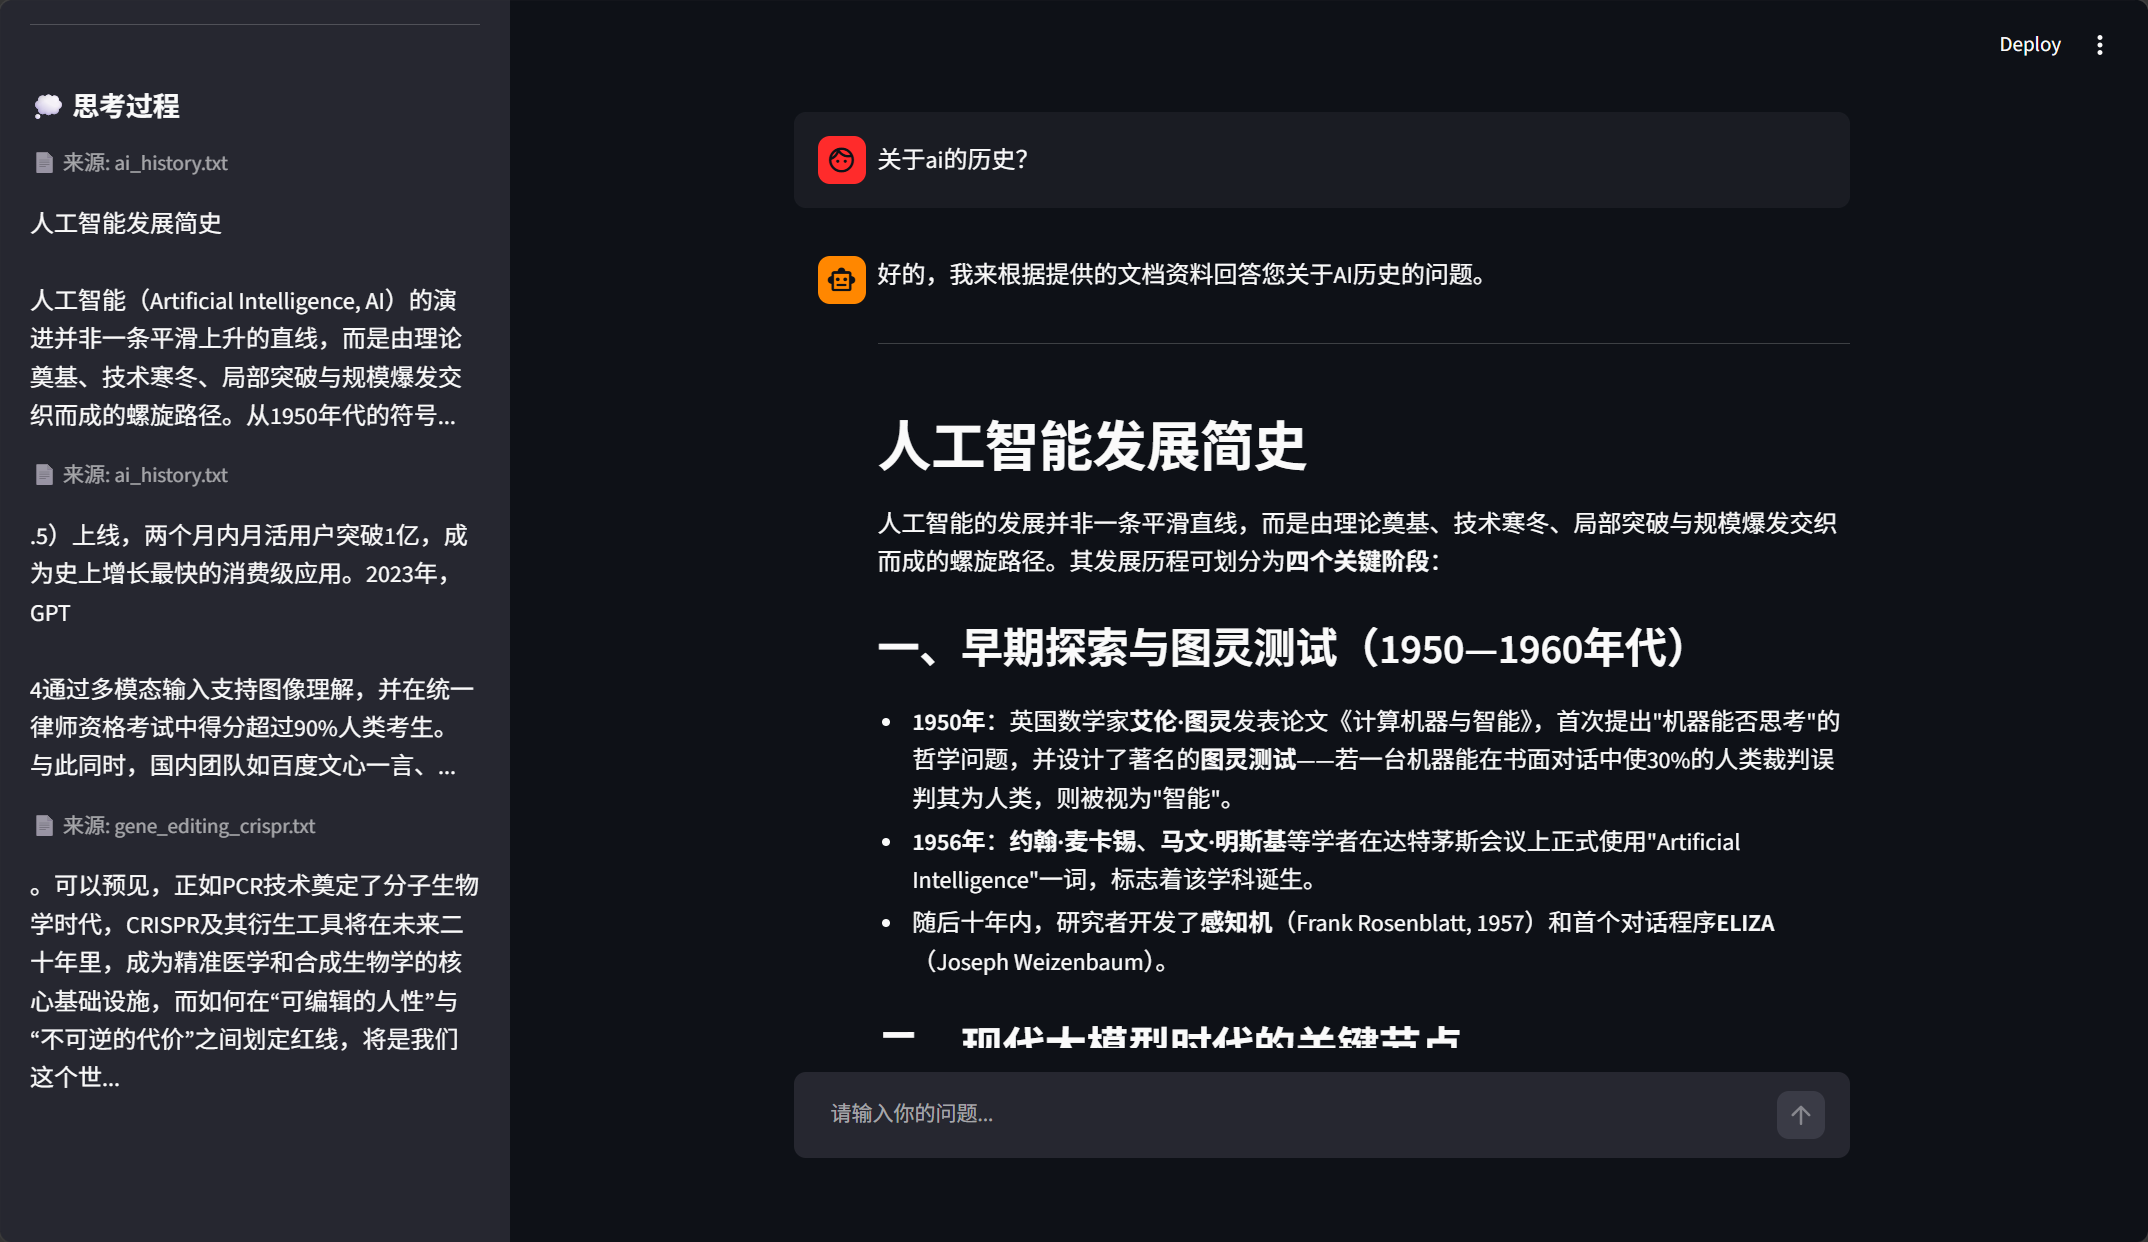
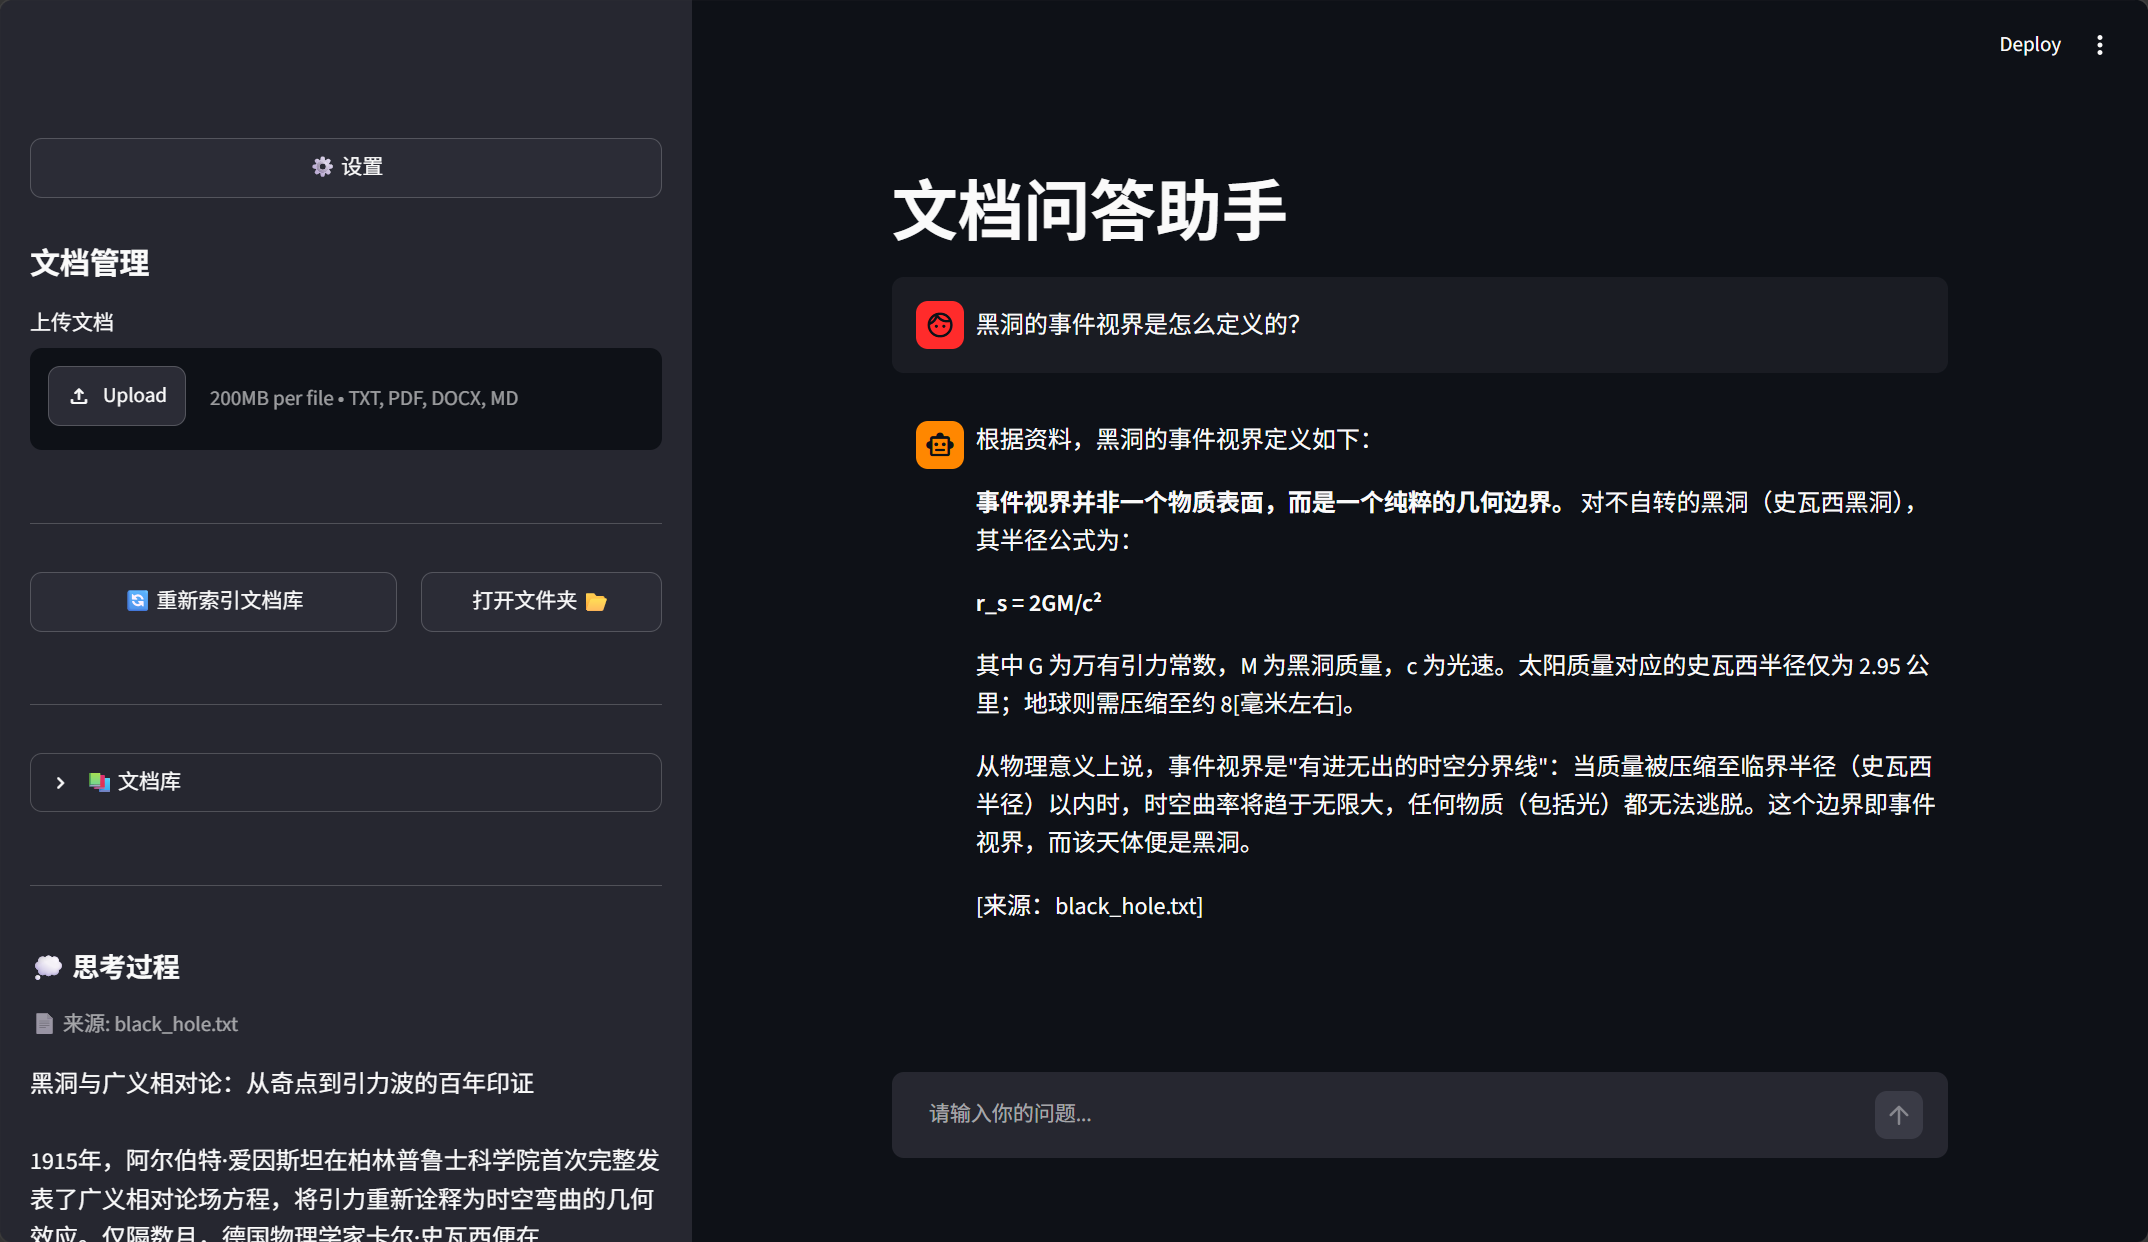
docs(readme): 更换演示截图，用更具体的问答与更完整的文档列表
两张截图换成新拍的，内容更能说明问题：

- dialog_demo.png：原来问的是「关于ai的历史？」（较笼统），换成
  「黑洞的事件视界是怎么定义的？」——答案带史瓦西半径公式，末尾有
  [来源: black_hole.txt] 行内引用，直接回答「凭什么相信它没在编」
- doc_manage_demo.png：原来文档名被截断成 classical_poetry… 之类，
  新图完整显示文档名，更像一个真在用的文档库

图注同步更新：旧图注写的是「多轮对话」，而新图是单次问答，对不上了。

未采用的第三张（设置弹窗）移至 notes/，不进仓库。

diff --git a/README.md b/README.md
@@ -9,7 +9,7 @@
 *文档库管理：查看已索引文档、浏览原文、删除*
 
 ![知识库对话与思考过程](assets/dialog_demo.png)
-*多轮对话：检索来源透明可见，可连续追问*
+*提问后给出带出处的回答（末尾标注来源文件），侧边栏「思考过程」展示检索到的原文片段*
 
 ## 工程要点
 
